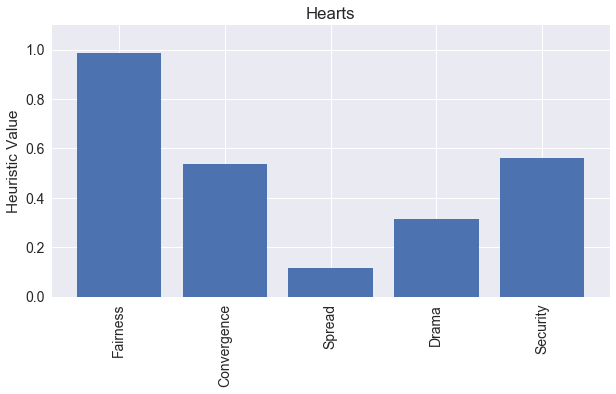
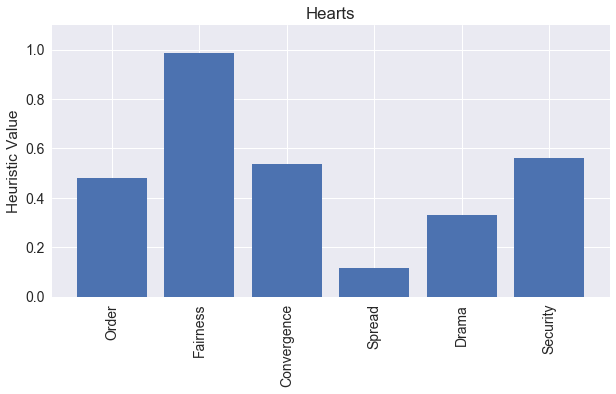
Adding a new heuristic for analysis

diff --git a/_posts/2019-03-19-chaos-heuristic.md b/_posts/2019-03-19-chaos-heuristic.md
@@ -1,0 +1,62 @@
+---
+layout: post
+title:  "Order Heuristic"
+date:   2019-03-18 09:43:18 -0600
+categories: GENERAL
+image: images/beautiful-chaos.jpg
+author: Mark Goadrich
+avatar: images/goadrich.png
+authorhome: http://mark.goadrich.com
+comments: true
+---
+
+Time for a new heuristic! For each game analyzed so far, I've been able to say that
+AI players can win against random players, demonstrating there is some strategy in the game.
+But can we start to place a metric on how successful the AI players are? In a game like
+[Agram]({{ site.baseurl }}{% post_url 2018-11-26-agram %}), the AI was successful, but barely as seen here:
+
+![Agram Markov Gain]({{site.url}}{{site.baseurl}}/images/agram/winprob.png){:class="post-image"}
+
+But in [Ninety-Eight](({{ site.baseurl }}{% post_url 2019-02-05-ninety-eight %})), 
+the AI could win against random players in most simulations:
+
+![Ninety Eight Markov Gain]({{site.url}}{{site.baseurl}}/images/ninetyeight/winprob.png){:class="post-image"}
+
+Essentially,
+we want to see how much control a player has over their own fate, or if they are at
+the whims of random events. This needs to be more than just the AI win percentage,
+and should take into account the expected performance of the random player as a baseline.
+We will call this new heuristic **Order**, a positive spin
+on the chaos found in many card games.
+
+### Order
+
+First, we record the win percentage (*aiwp*) of the AI player in games with one AI player and
+the rest Random players.
+
+Next, we need to find the expected win percentage (*ewp*) for the number of 
+players in the game, assuming that the game is fair. For example, with 4 players, 
+a fair game would have the first player win 25% of the time. 
+
+A perfect AI in a perfect information world should be able to win 100% of the games.
+This is reduced as chaos is introduced that the AI cannot account for. Therefore, 
+we can calculate the Order of the game by finding the ratio of the *aiwp* gain over
+the perfect ordered AI gain as follows:
+
+ {% raw %}
+  $$Order = \frac{aiwp - ewp}{1 - ewp}$$
+ {% endraw %}
+
+Order will be a value between 0 and 1.
+When this number is low, then the AI player has a hard time winning against a random chaotic
+player, but when it is high, the AI player is very successful in determining their success
+in the game. 
+
+For the above games when played with four players, Agram scores a 0.19, while Ninety-Eight
+scores 0.88.  I've added in this heuristic to the 
+[summary]({{site.url}}{{site.baseurl}}/leads) page for each game discussed so far.
+
+### Up Next
+
+Back to discussing Hearts! It is heuristic time and lead history graph, and look out for 
+some unexpected findings related to "Shooting the Moon!"

diff --git a/leads.md b/leads.md
@@ -48,18 +48,22 @@ The histories of the winning players are in red, while losing players are in bla
 
 ### Hearts
 
+* [RECYCLE coding]({{ site.baseurl }}{% post_url 2019-03-13-hearts %})
+* [Statistics]({{ site.baseurl }}{% post_url 2019-03-18-hearts-statistics %})
+
 ![Hearts All AI Rank Estimate]({{site.url}}{{site.baseurl}}/images/hearts/allairankestimatewinner4p.png){:class="post-image"}
 
 ### Heuristics
 
-Each game is also quantified with the following five 
-[heuristics]({% post_url 2018-12-11-heuristics %}).
+Each game is also quantified with the following six 
+[heuristics]({{ site.baseurl }}{% post_url 2018-12-11-heuristics %}), with the 
+[Order heuristic](({{ site.baseurl }}{% post_url 2019-03-19-chaos-heuristic %}) added later.
 
 
-|       Game       | Fairness | Convergence | Spread | Drama | Security |
-|------------------|:--------:|:-----------:|:------:|:-----:|:--------:|
-| Agram            |     0.80 |     0.56    |  0.04  |  0.24 | 0.46     |
-| Pairs            |     0.99 |     0.50    |  0.27  |  0.32 | 0.51     |
-| Ninety-Eight     |     0.97 |     0.50    |  0.31  |  0.32 | 0.87     |
-| Stealing Bundles |     0.98 |     0.51    |  0.14  |  0.36 | 0.29     |
-| Hearts           |          |             |        |       |          |
+|       Game       | Order | Fairness | Convergence | Spread | Drama | Security |
+|------------------|:-----:|:--------:|:-----------:|:------:|:-----:|:--------:|
+| Agram            |  0.19 |     0.80 |     0.56    |  0.04  |  0.24 | 0.46     |
+| Pairs            |  0.56 |     0.99 |     0.50    |  0.27  |  0.32 | 0.51     |
+| Ninety-Eight     |  0.88 |     0.97 |     0.50    |  0.31  |  0.32 | 0.87     |
+| Stealing Bundles |  0.45 |     0.98 |     0.51    |  0.14  |  0.36 | 0.29     |
+| Hearts           |  0.48 |     0.99 |     0.54    |  0.13  |  0.33 | 0.56     |
